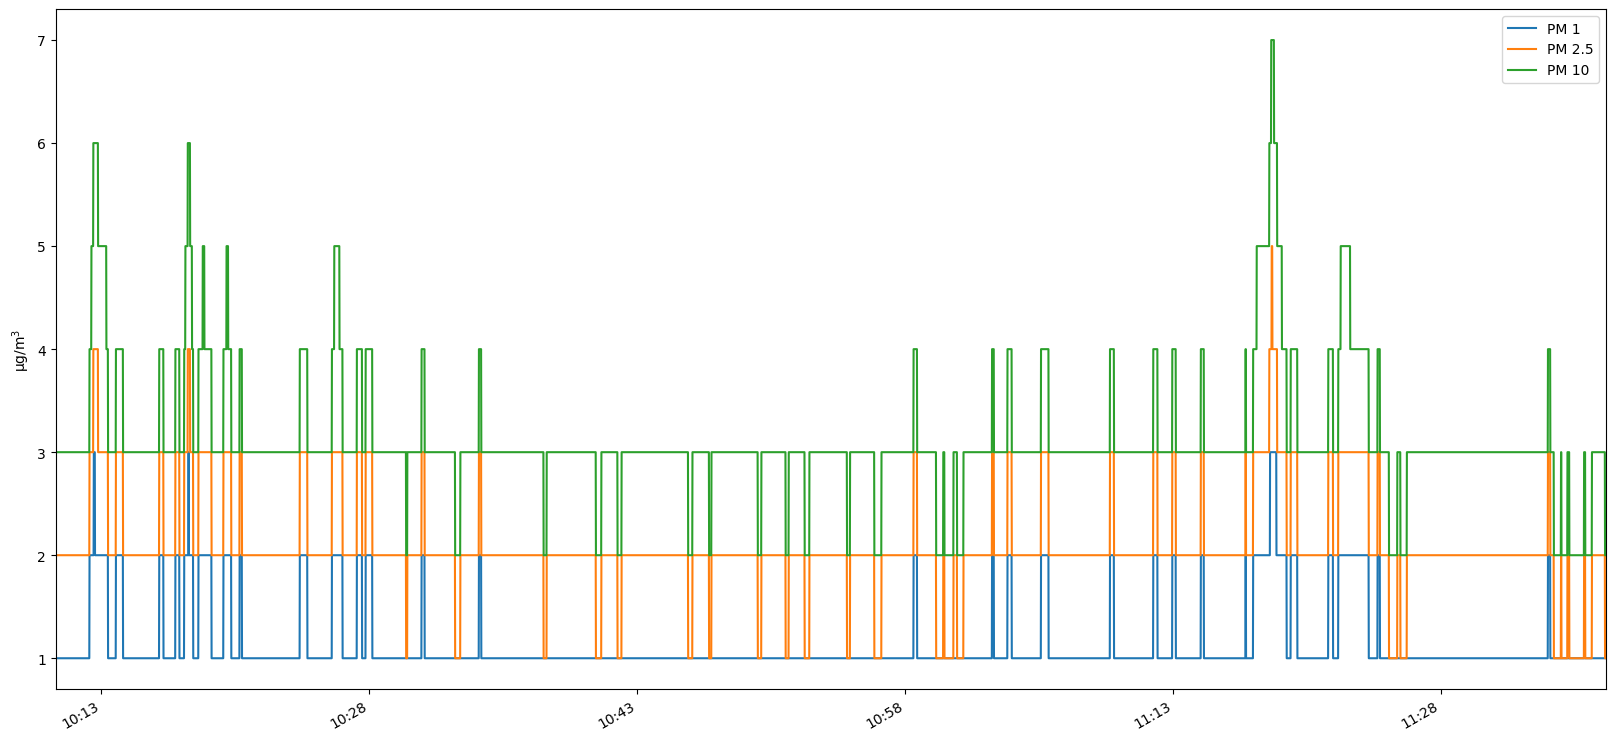
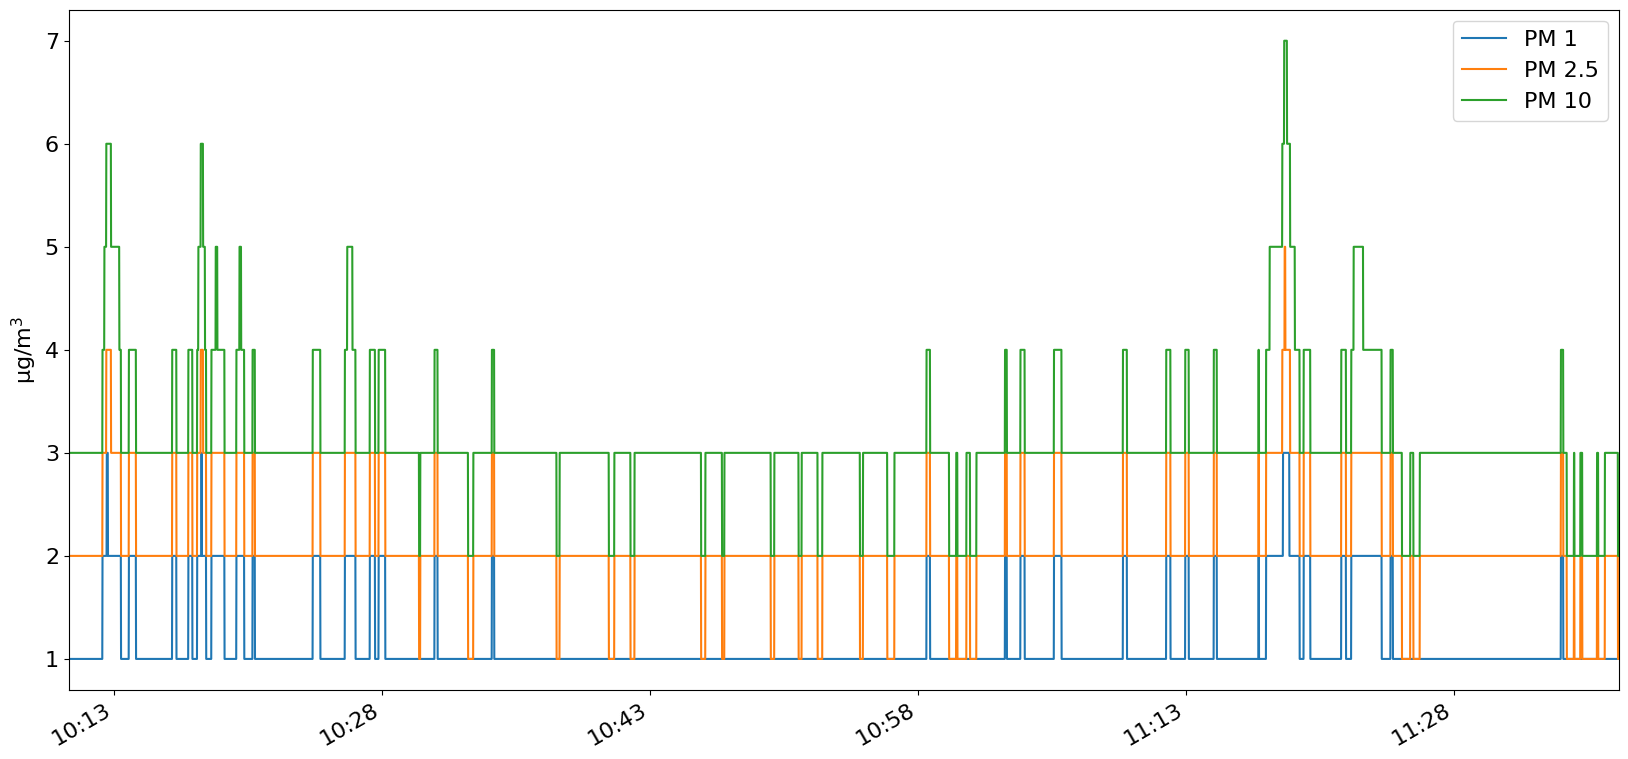
fontsize in plot

diff --git a/SM-UART-04L/smokeplot.py b/SM-UART-04L/smokeplot.py
@@ -39,6 +39,8 @@ for line in data:
 ndata = np.array(ndata)
 if args.xkcd:
     plt.xkcd()
+else:
+    plt.rcParams["font.size"] = "16"
 
 plt.figure(figsize=(20,10))
 plt.plot(ndata[:,0],ndata[:,1], label="PM 1")
